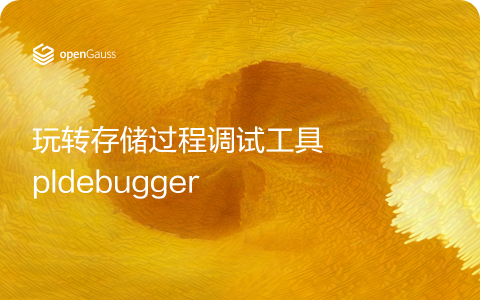
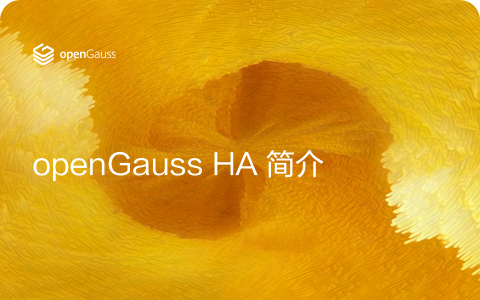
fix event page bug & replace video poster

Changed region(s): [[0.0625, 0.42, 0.6875, 0.66]]

diff --git a/themes/project/static/js/events.js b/themes/project/static/js/events.js
@@ -8,9 +8,15 @@ $(function () {
             $(target).addClass('active').siblings().removeClass('active');
         });
     }
+
+    var sortDate = function (date) {
+        let a = date;
+        return a.date.substring(8, 10) === '' ? Number(a.date.substring(0, 4) + a.date.substring(5, 7) + '00') : Number(a.date.substring(0, 4) + a.date.substring(5, 7) + a.date.substring(8, 10));
+    };
+
     var dateFormat = function (date, element) {
         if (lang === 'zh') {
-            let dateTile = date.replace('\/', '年') + '月'
+            let dateTile = date.includes('\/') ? date.replace('\/', '年') + '月' :  date.replace('.', '年') + '月';
             element.find('.event-item-time').text(dateTile);
         }
         if (lang === 'en') {
@@ -28,22 +34,29 @@ $(function () {
                 November: '11',
                 December: '12'
             }
-            let currentDate = date.split('/')
-            let currentMonth = currentDate[1]
-            let currentYear = currentDate[0]
-            let keys = Object.keys(dataMonth)
+            let currentDate = date.includes('/') ? date.split('/') : date.split('.');
+            let currentMonth = currentDate[1];
+            let currentYear = currentDate[0];
+            let keys = Object.keys(dataMonth);
             for (let key of keys) {
-                let value = dataMonth[key]
+                let value = dataMonth[key];
                 if (value === currentMonth) {
-                    let dataTile = key + ' ' + currentYear
+                    let dataTile = key + ' ' + currentYear;
                     element.find('.event-item-time').text(dataTile);
-
                 }
             }
         }
     }
 
     var newEventList = [];
+    var timesList = [];
+
+    var date = new Date();
+    var curMonth = (date.getMonth() < 9) ? ('0' + (date.getMonth() + 1)) : date.getMonth() + 1;
+    var monthDate = (date.getDate().toString().length === 1) ? ('0' + date.getDate()) : date.getDate();
+    var curYearMonth = Number('' + date.getFullYear() + curMonth);
+    var curDate = Number('' + date.getFullYear() + curMonth + monthDate);
+
     var checkFlag = false;
     eventList = eventList.sort(function (a, b){
         var sortResult = Number(b.date.substring(0, 4) + b.date.substring(5, 7)+ a.date.substring(8, 10)) - Number(a.date.substring(0, 4) + a.date.substring(5, 7) + b.date.substring(8, 10));
@@ -54,6 +67,23 @@ $(function () {
         }
         return sortResult;
     })
+
+    eventList = eventList.filter(function (item) {
+        var dateTemp = item.date.split('-');
+        if(!item.date.includes('-')){
+            return true;
+        }
+        if(item.date.includes('-')){
+            if((Number(dateTemp[0].substring(0, 4) + dateTemp[0].substring(5, 7)) < curYearMonth) && (curYearMonth < Number(dateTemp[1].substring(0, 4) + dateTemp[1].substring(5, 7)))){
+                item.realMonth = date.getFullYear() + '/' + curMonth;
+                timesList.push(item);
+                return false;
+            }else{
+                return true;
+            }
+        }
+    })
+
     eventList.forEach(function (item, index) {
         if(index){
             checkFlag = false;
@@ -70,8 +100,25 @@ $(function () {
                 })
             }
         }else{
+
             newEventList.push({
                 month: item.date.split('-')[0].substring(0, 7),
+                eventList: [item]
+            })
+        }
+    })
+
+    timesList.forEach(function(item) {
+        checkFlag = false;
+        newEventList.forEach(function (newItem) {
+            if(item.realMonth.includes(newItem.month)){
+                checkFlag = true;
+                newItem.eventList.push(item);
+            }
+        })
+        if(!checkFlag){
+            newEventList.push({
+                month: item.realMonth,
                 eventList: [item]
             })
         }
@@ -81,10 +128,6 @@ $(function () {
         return Number(b.month.substring(0, 4) + b.month.substring(5, 7)) - Number(a.month.substring(0, 4) + a.month.substring(5, 7));
     })
 
-    var date = new Date();
-    var curMonth = (date.getMonth() < 9) ? ('0' + (date.getMonth() + 1)) : date.getMonth() + 1;
-    var curDate = (date.getDate().toString().length === 1) ? ('0' + date.getDate()) : date.getDate();
-    var curDate = Number('' + date.getFullYear() + curMonth + curDate);
     var filterFlag = false;
     newEventList.forEach(function (item) {
         filterFlag = false;
@@ -116,7 +159,7 @@ $(function () {
         }
     })
 
-    var checkAllFlag = 0;;
+    var checkAllFlag = 0;
     newEventList.forEach(function (item) {
         checkAllFlag = false;
         item.eventList.forEach(function (secondItem) {
@@ -134,10 +177,15 @@ $(function () {
     var olderOutsideDom = null;
     var olderInsideDom = null;
     newEventList.reverse().forEach(function (item){
-
+        item.eventList.sort((a, b) => {
+            a = sortDate(a);
+            b = sortDate(b);
+            return a - b;
+        })
         if(item.isLatest){
             if($(window).innerWidth() > 992){
                 outsideDom = $('.js-clone-out').clone().removeClass('hide').removeClass('js-clone-out');
+                dateFormat(item.month, $(outsideDom));
                 item.eventList.forEach(function (itemEvent){
                     if(itemEvent.isLatest){
                         insideDom = $('.js-clone-inside').clone().removeClass('hide').removeClass('js-clone-inside');
@@ -160,7 +208,6 @@ $(function () {
 
                 })
                 $('.js-latest-event').append($(outsideDom));
-                dateFormat(item.month, $(outsideDom))
             }else{
                 outsideDom = $('.js-latest-h5-outside').clone().removeClass('hide').removeClass('js-latest-h5-outside');
                 item.eventList.forEach(function (itemEvent){

diff --git a/content/en/video/202012/20201245.md b/content/en/video/202012/20201245.md
@@ -3,7 +3,7 @@
     hometitle = "No.13: Introduction of openGauss HA"
     date = "2020-12-10"
     styles = "Themed livestreaming series"
-    banner = "img/video/live12.png"
+    banner = "img/video/live13.png"
     author = ""
     videourl = "https://learningvideo.obs.ap-southeast-1.myhuaweicloud.com/B%E7%AB%99%E7%9B%B4%E6%92%AD%E5%BD%95%E6%92%AD/%E9%99%88%E7%90%9B%E5%BD%95%E6%92%AD%E8%A7%86%E9%A2%91.mp4" 
     tag = "live"

diff --git a/content/zh/video/202012/20201245.md b/content/zh/video/202012/20201245.md
@@ -3,7 +3,7 @@
     hometitle = "第13期：openGauss HA 简介"
     date = "2020-12-10"
     styles = "专题直播系列"
-    banner = "img/video/live12.png"
+    banner = "img/video/live13.png"
     author = ""
     videourl = "https://learningvideo.obs.ap-southeast-1.myhuaweicloud.com/B%E7%AB%99%E7%9B%B4%E6%92%AD%E5%BD%95%E6%92%AD/%E9%99%88%E7%90%9B%E5%BD%95%E6%92%AD%E8%A7%86%E9%A2%91.mp4" 
     tag = "live"
